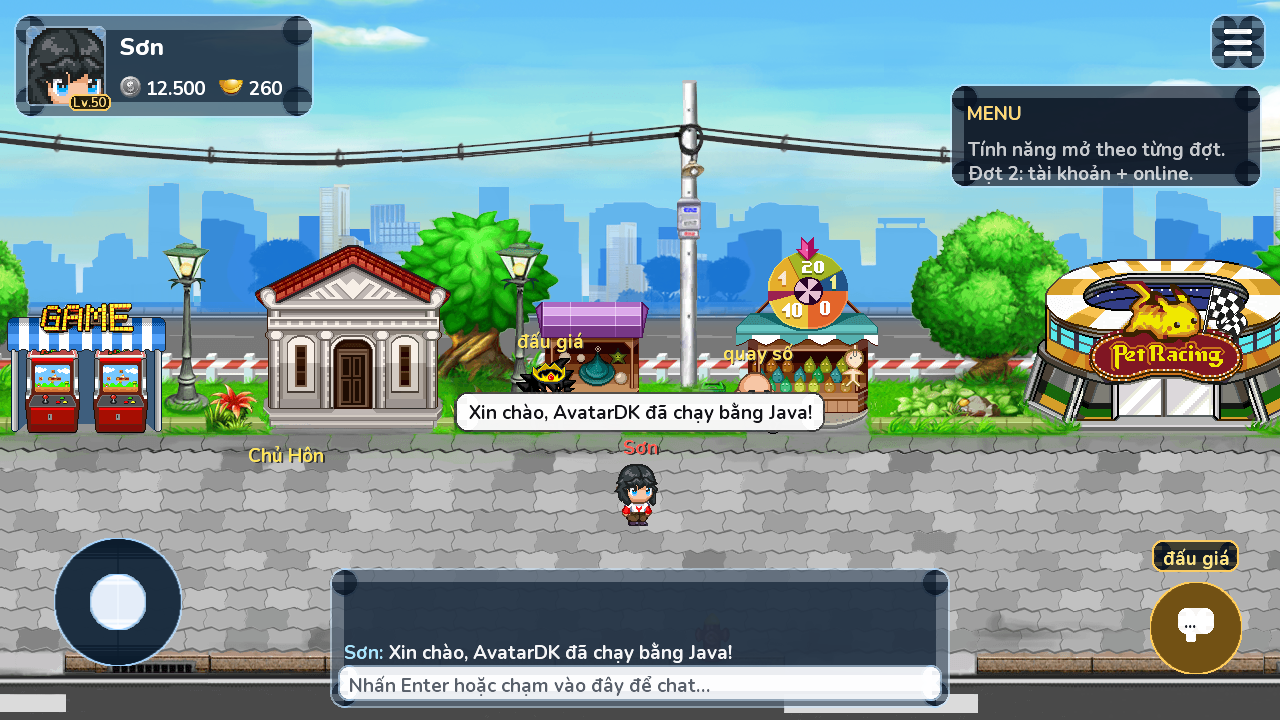
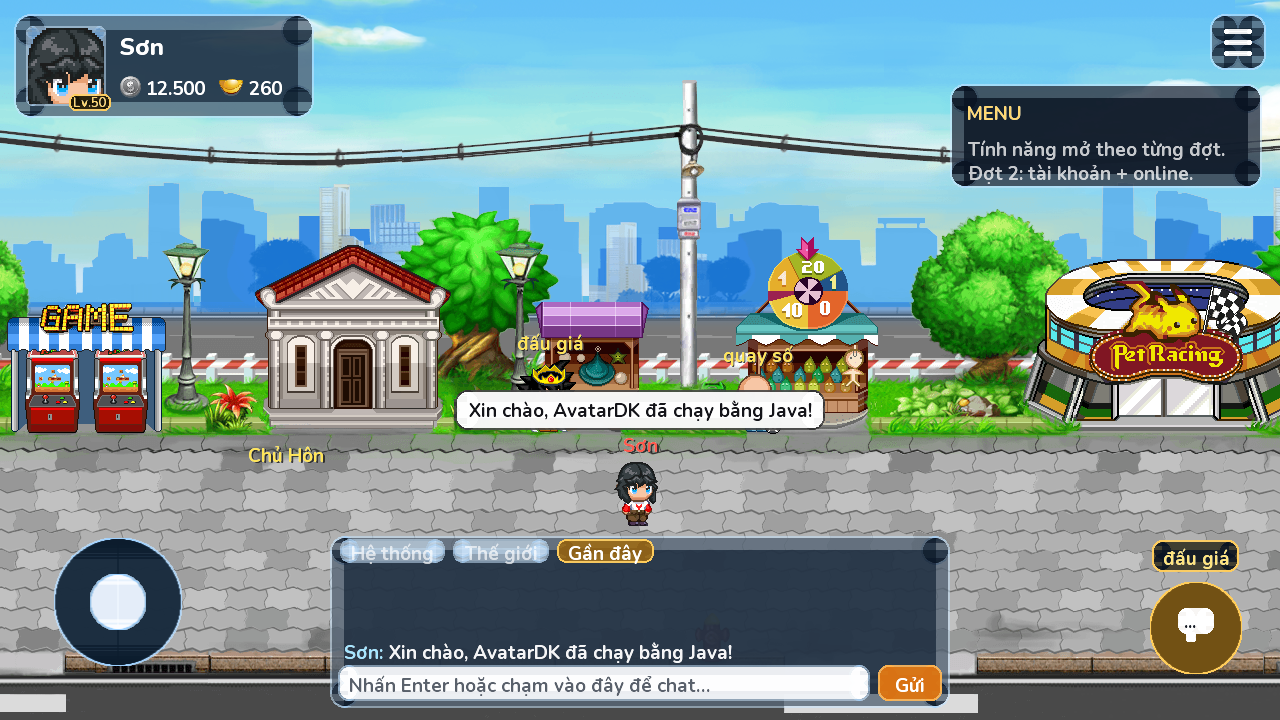
Khung chat có 3 tab Hệ thống/Thế giới/Gần đây + nút Gửi cam ở cuối ô nhập

Changed region(s): [[0.25, 0.4583, 0.75, 0.825], [0.6562, 0.9167, 0.75, 0.9778]]

diff --git a/core/src/main/java/com/avatardk/game/ui/WorldScreen.java b/core/src/main/java/com/avatardk/game/ui/WorldScreen.java
@@ -107,18 +107,26 @@ public class WorldScreen extends ScreenAdapter {
     private boolean typing = false;
 
     // ---- Khung chat GIỮA DƯỚI (theo yêu cầu của chủ dự án: khung chat luôn hiện
-    // ở giữa dưới màn hình thay vì phải bấm icon chat như bản gốc) ----
+    // ở giữa dưới màn hình thay vì phải bấm icon chat như bản gốc; có 3 tab
+    // Hệ thống / Thế giới / Gần đây và NÚT GỬI ở cuối ô nhập) ----
     private static final float CHAT_W = 620f, CHAT_X = Ui.W / 2f - CHAT_W / 2f, CHAT_Y = 12f;
     private static final float CHAT_INPUT_H = 36f, CHAT_LOG_LINES = 4, CHAT_LINE_H = 22f;
-    private static final float CHAT_H = CHAT_INPUT_H + CHAT_LOG_LINES * CHAT_LINE_H + 16f;
-    private static class ChatLine { String name, text; boolean npc; }
-    private final List<ChatLine> chatLog = new ArrayList<>();
+    private static final float CHAT_TAB_H = 30f, CHAT_SEND_W = 64f;
+    private static final float CHAT_H = CHAT_TAB_H + CHAT_INPUT_H + CHAT_LOG_LINES * CHAT_LINE_H + 18f;
+    private static final int TAB_SYSTEM = 0, TAB_WORLD = 1, TAB_NEARBY = 2;
+    private static final String[] CHAT_TABS = {"Hệ thống", "Thế giới", "Gần đây"};
+    private int activeChatTab = TAB_NEARBY;
+    private boolean chatSeeded = false;
+    private static class ChatLine { String name, text; boolean system; }
+    @SuppressWarnings("unchecked")
+    private final List<ChatLine>[] chatLogs = new List[]{
+        new ArrayList<ChatLine>(), new ArrayList<ChatLine>(), new ArrayList<ChatLine>()};
 
-    private void addChatLog(String name, String text, boolean npc) {
+    private void addChatLog(int tab, String name, String text, boolean system) {
         ChatLine l = new ChatLine();
-        l.name = name; l.text = text; l.npc = npc;
-        chatLog.add(l);
-        while (chatLog.size() > 40) chatLog.remove(0);
+        l.name = name; l.text = text; l.system = system;
+        chatLogs[tab].add(l);
+        while (chatLogs[tab].size() > 40) chatLogs[tab].remove(0);
     }
     private final StringBuilder typeBuffer = new StringBuilder();
     private boolean menuOpen = false;
@@ -220,9 +228,11 @@ public class WorldScreen extends ScreenAdapter {
         for (MapDef d : MAPS) if (d.id == mapId) { loadMap(d); return; }
     }
     public void debugOpenMenu() { menuOpen = true; }
+    public void debugCloseMenu() { menuOpen = false; }
     public void debugInteract() { interact(); }
     public void debugSetPlayer(float mediumX, float mediumY) { playerX = mediumX; playerY = mediumY; }
     public void debugChat(String text) { showBubble(text); }
+    public void debugChatTab(int tab) { activeChatTab = tab; }
     public int mapId() { return mapDef.id; }
     public int npcCount() { return npcFigures.size(); }
     public String debugInfo() {
@@ -239,11 +249,28 @@ public class WorldScreen extends ScreenAdapter {
     private void showBubble(String text) {
         chatBubble = text;
         chatTimer = 4f; // ChatPopup của gốc hiện vài giây rồi tự tắt (Base.update -> setOut)
-        addChatLog(AvatarDkGame.SON_NAME, text, false);
+        addChatLog(TAB_NEARBY, AvatarDkGame.SON_NAME, text, false);
+    }
+
+    /** Gửi nội dung đang gõ: vào tab Gần đây + bong bóng trên đầu (dùng chung
+     *  cho phím Enter và nút Gửi). */
+    private void sendChat() {
+        typing = false;
+        String msg = typeBuffer.toString().trim();
+        typeBuffer.setLength(0);
+        if (!msg.isEmpty()) {
+            activeChatTab = TAB_NEARBY;
+            showBubble(msg);
+        }
     }
 
     @Override
     public void show() {
+        if (!chatSeeded) {
+            chatSeeded = true;
+            addChatLog(TAB_SYSTEM, null, "Chào mừng bạn đến với AvatarDK!", true);
+            addChatLog(TAB_SYSTEM, null, "Đăng nhập + online đang được nối ở đợt 2.", true);
+        }
         Gdx.input.setInputProcessor(new InputAdapter() {
             @Override
             public boolean keyTyped(char c) {
@@ -293,8 +320,24 @@ public class WorldScreen extends ScreenAdapter {
             menuOpen = false;
             return;
         }
-        // ô nhập của khung chat giữa dưới: chạm vào là gõ
-        if (x >= CHAT_X && x <= CHAT_X + CHAT_W && y >= CHAT_Y && y <= CHAT_Y + CHAT_INPUT_H + 6) {
+        // khung chat: tab (hàng trên cùng) / nút Gửi / ô nhập
+        float tabTop = CHAT_Y + CHAT_H;
+        if (x >= CHAT_X && x <= CHAT_X + CHAT_W && y >= tabTop - CHAT_TAB_H && y <= tabTop) {
+            float tx = CHAT_X + 10;
+            for (int i = 0; i < CHAT_TABS.length; i++) {
+                layout.setText(Ui.fontSmall, CHAT_TABS[i]);
+                float tw = layout.width + 24;
+                if (x >= tx && x <= tx + tw) { activeChatTab = i; return; }
+                tx += tw + 8;
+            }
+            return;
+        }
+        float sendX = CHAT_X + CHAT_W - 8 - CHAT_SEND_W;
+        if (x >= sendX && x <= sendX + CHAT_SEND_W && y >= CHAT_Y + 7 && y <= CHAT_Y + 7 + CHAT_INPUT_H) {
+            if (typing) sendChat();
+            return;
+        }
+        if (x >= CHAT_X && x <= sendX - 6 && y >= CHAT_Y && y <= CHAT_Y + CHAT_INPUT_H + 6) {
             typing = true;
             return;
         }
@@ -325,7 +368,11 @@ public class WorldScreen extends ScreenAdapter {
     public void interact() {
         NpcFigure n = findNearestNpc();
         if (n == null) {
-            showBubble("Không có ai ở gần để tương tác.");
+            // bong bóng trên đầu như cũ, nhưng trong khung chat thì đây là
+            // thông báo HỆ THỐNG (vào tab Hệ thống, không vào tab Gần đây)
+            chatBubble = "Không có ai ở gần để tương tác.";
+            chatTimer = 4f;
+            addChatLog(TAB_SYSTEM, null, "Không có ai ở gần để tương tác.", true);
             return;
         }
         n.bubble = (n.data.chat != null && !n.data.chat.isEmpty())
@@ -376,11 +423,7 @@ public class WorldScreen extends ScreenAdapter {
 
         if (Gdx.input.isKeyJustPressed(Input.Keys.ENTER)) {
             if (!typing) { typing = true; typeBuffer.setLength(0); }
-            else {
-                typing = false;
-                String msg = typeBuffer.toString().trim();
-                if (!msg.isEmpty()) showBubble(msg);
-            }
+            else sendChat();
         }
         if (typing && Gdx.input.isKeyJustPressed(Input.Keys.ESCAPE)) typing = false;
     }
@@ -507,27 +550,56 @@ public class WorldScreen extends ScreenAdapter {
         batch.end();
     }
 
-    /** Khung chat GIỮA DƯỚI, luôn hiện: trên là nhật ký chat gần nhất (tên người
-     *  chơi màu trắng, NPC màu vàng), dưới là ô nhập — Enter/chạm vào ô để gõ,
-     *  Enter lần nữa để gửi (lời chat đồng thời nổi bong bóng trên đầu như gốc).
-     *  Khi nối server ở đợt 2, khung này dùng luôn cho gói chat 55/77 của gốc. */
+    /** Khung chat GIỮA DƯỚI, luôn hiện, gồm: hàng TAB (Hệ thống / Thế giới /
+     *  Gần đây) ở trên cùng, nhật ký của tab đang chọn ở giữa, ô nhập + NÚT GỬI
+     *  ở dưới. Enter/chạm vào ô để gõ, Enter hoặc nút Gửi để gửi (lời chat
+     *  đồng thời nổi bong bóng trên đầu như gốc). Lời NPC không vào khung này.
+     *  Khi nối server: tab Gần đây = gói chat 55/77, Thế giới = kênh toàn server,
+     *  Hệ thống = gói SERVER_MESSAGE (-9) của gốc. */
     private void drawChatFrame() {
         batch.draw(Ui.roundedRect((int) CHAT_W, (int) CHAT_H, 14,
             new Color(0.04f, 0.09f, 0.15f, 0.62f), GLASS_RIM), CHAT_X, CHAT_Y);
-        // nhật ký: dòng mới nhất nằm ngay trên ô nhập
-        int n = Math.min((int) CHAT_LOG_LINES, chatLog.size());
-        for (int i = 0; i < n; i++) {
-            ChatLine l = chatLog.get(chatLog.size() - n + i);
-            float ly = CHAT_Y + CHAT_INPUT_H + 12 + (n - 1 - i) * CHAT_LINE_H + 15;
-            Ui.fontSmall.setColor(l.npc ? new Color(1f, 0.85f, 0.45f, 1f) : new Color(0.65f, 0.9f, 1f, 1f));
-            Ui.fontSmall.draw(batch, l.name + ":", CHAT_X + 14, ly);
-            layout.setText(Ui.fontSmall, l.name + ":");
-            Ui.fontSmall.setColor(1f, 1f, 1f, 0.95f);
-            Ui.fontSmall.draw(batch, l.text, CHAT_X + 14 + layout.width + 6, ly);
+        // hàng tab
+        float tx = CHAT_X + 10;
+        float ty = CHAT_Y + CHAT_H - CHAT_TAB_H + 3;
+        for (int i = 0; i < CHAT_TABS.length; i++) {
+            boolean active = i == activeChatTab;
+            layout.setText(Ui.fontSmall, CHAT_TABS[i]);
+            float tw = layout.width + 24;
+            batch.draw(Ui.roundedRect((int) tw, (int) (CHAT_TAB_H - 6), 9,
+                active ? new Color(0.55f, 0.38f, 0.10f, 0.9f) : new Color(1f, 1f, 1f, 0.14f),
+                active ? new Color(1f, 0.8f, 0.35f, 0.95f) : GLASS_RIM), tx, ty);
+            Ui.fontSmall.setColor(active ? Color.WHITE : new Color(1f, 1f, 1f, 0.65f));
+            Ui.fontSmall.draw(batch, CHAT_TABS[i], tx + 12, ty + CHAT_TAB_H - 13);
+            tx += tw + 8;
         }
-        // ô nhập
+        // nhật ký của tab đang chọn: dòng mới nhất nằm ngay trên ô nhập
+        List<ChatLine> log = chatLogs[activeChatTab];
+        int n = Math.min((int) CHAT_LOG_LINES, log.size());
+        for (int i = 0; i < n; i++) {
+            ChatLine l = log.get(log.size() - n + i);
+            float ly = CHAT_Y + CHAT_INPUT_H + 12 + (n - 1 - i) * CHAT_LINE_H + 15;
+            if (l.system) {
+                Ui.fontSmall.setColor(1f, 0.62f, 0.35f, 1f);
+                Ui.fontSmall.draw(batch, l.text, CHAT_X + 14, ly);
+            } else {
+                Ui.fontSmall.setColor(0.65f, 0.9f, 1f, 1f);
+                Ui.fontSmall.draw(batch, l.name + ":", CHAT_X + 14, ly);
+                layout.setText(Ui.fontSmall, l.name + ":");
+                Ui.fontSmall.setColor(1f, 1f, 1f, 0.95f);
+                Ui.fontSmall.draw(batch, l.text, CHAT_X + 14 + layout.width + 6, ly);
+            }
+        }
+        if (n == 0) {
+            Ui.fontSmall.setColor(1f, 1f, 1f, 0.45f);
+            Ui.fontSmall.draw(batch, activeChatTab == TAB_WORLD
+                ? "Chưa có tin nhắn thế giới nào." : "Chưa có tin nhắn nào.",
+                CHAT_X + 14, CHAT_Y + CHAT_INPUT_H + 27);
+        }
+        // ô nhập (chừa chỗ cho nút Gửi ở cuối)
+        float inputW = CHAT_W - 16 - CHAT_SEND_W - 8;
         Color inRim = typing ? new Color(1f, 0.8f, 0.35f, 0.95f) : GLASS_RIM;
-        batch.draw(Ui.roundedRect((int) (CHAT_W - 16), (int) CHAT_INPUT_H, 10,
+        batch.draw(Ui.roundedRect((int) inputW, (int) CHAT_INPUT_H, 10,
             new Color(1f, 1f, 1f, typing ? 0.96f : 0.88f), inRim), CHAT_X + 8, CHAT_Y + 7);
         if (typing) {
             Ui.fontSmall.setColor(0.1f, 0.1f, 0.12f, 1f);
@@ -536,6 +608,14 @@ public class WorldScreen extends ScreenAdapter {
             Ui.fontSmall.setColor(0.35f, 0.38f, 0.42f, 1f);
             Ui.fontSmall.draw(batch, "Nhấn Enter hoặc chạm vào đây để chat…", CHAT_X + 20, CHAT_Y + 30);
         }
+        // nút Gửi
+        float sendX = CHAT_X + CHAT_W - 8 - CHAT_SEND_W;
+        batch.draw(Ui.roundedRect((int) CHAT_SEND_W, (int) CHAT_INPUT_H, 10,
+            new Color(0.85f, 0.45f, 0.08f, 0.95f), new Color(1f, 0.7f, 0.3f, 0.9f)),
+            sendX, CHAT_Y + 7);
+        layout.setText(Ui.fontSmall, "Gửi");
+        Ui.fontSmall.setColor(Color.WHITE);
+        Ui.fontSmall.draw(batch, "Gửi", sendX + (CHAT_SEND_W - layout.width) / 2f, CHAT_Y + 30);
     }
 
     /** Trái trên — card glass gọn: avatar trong KHUNG VUÔNG (huy hiệu Lv nằm ở góc

diff --git a/desktop/src/main/java/com/avatardk/game/ScreenshotMain.java b/desktop/src/main/java/com/avatardk/game/ScreenshotMain.java
@@ -70,6 +70,14 @@ public class ScreenshotMain {
                     case 3:
                         if (frame == 25) {
                             shot("shot-hub-menu.png");
+                            world.debugCloseMenu();
+                            world.debugChatTab(0); // tab Hệ thống
+                            stage++; frame = 0;
+                        }
+                        break;
+                    case 4:
+                        if (frame == 25) {
+                            shot("shot-chat-system.png");
                             Gdx.app.exit();
                         }
                         break;
